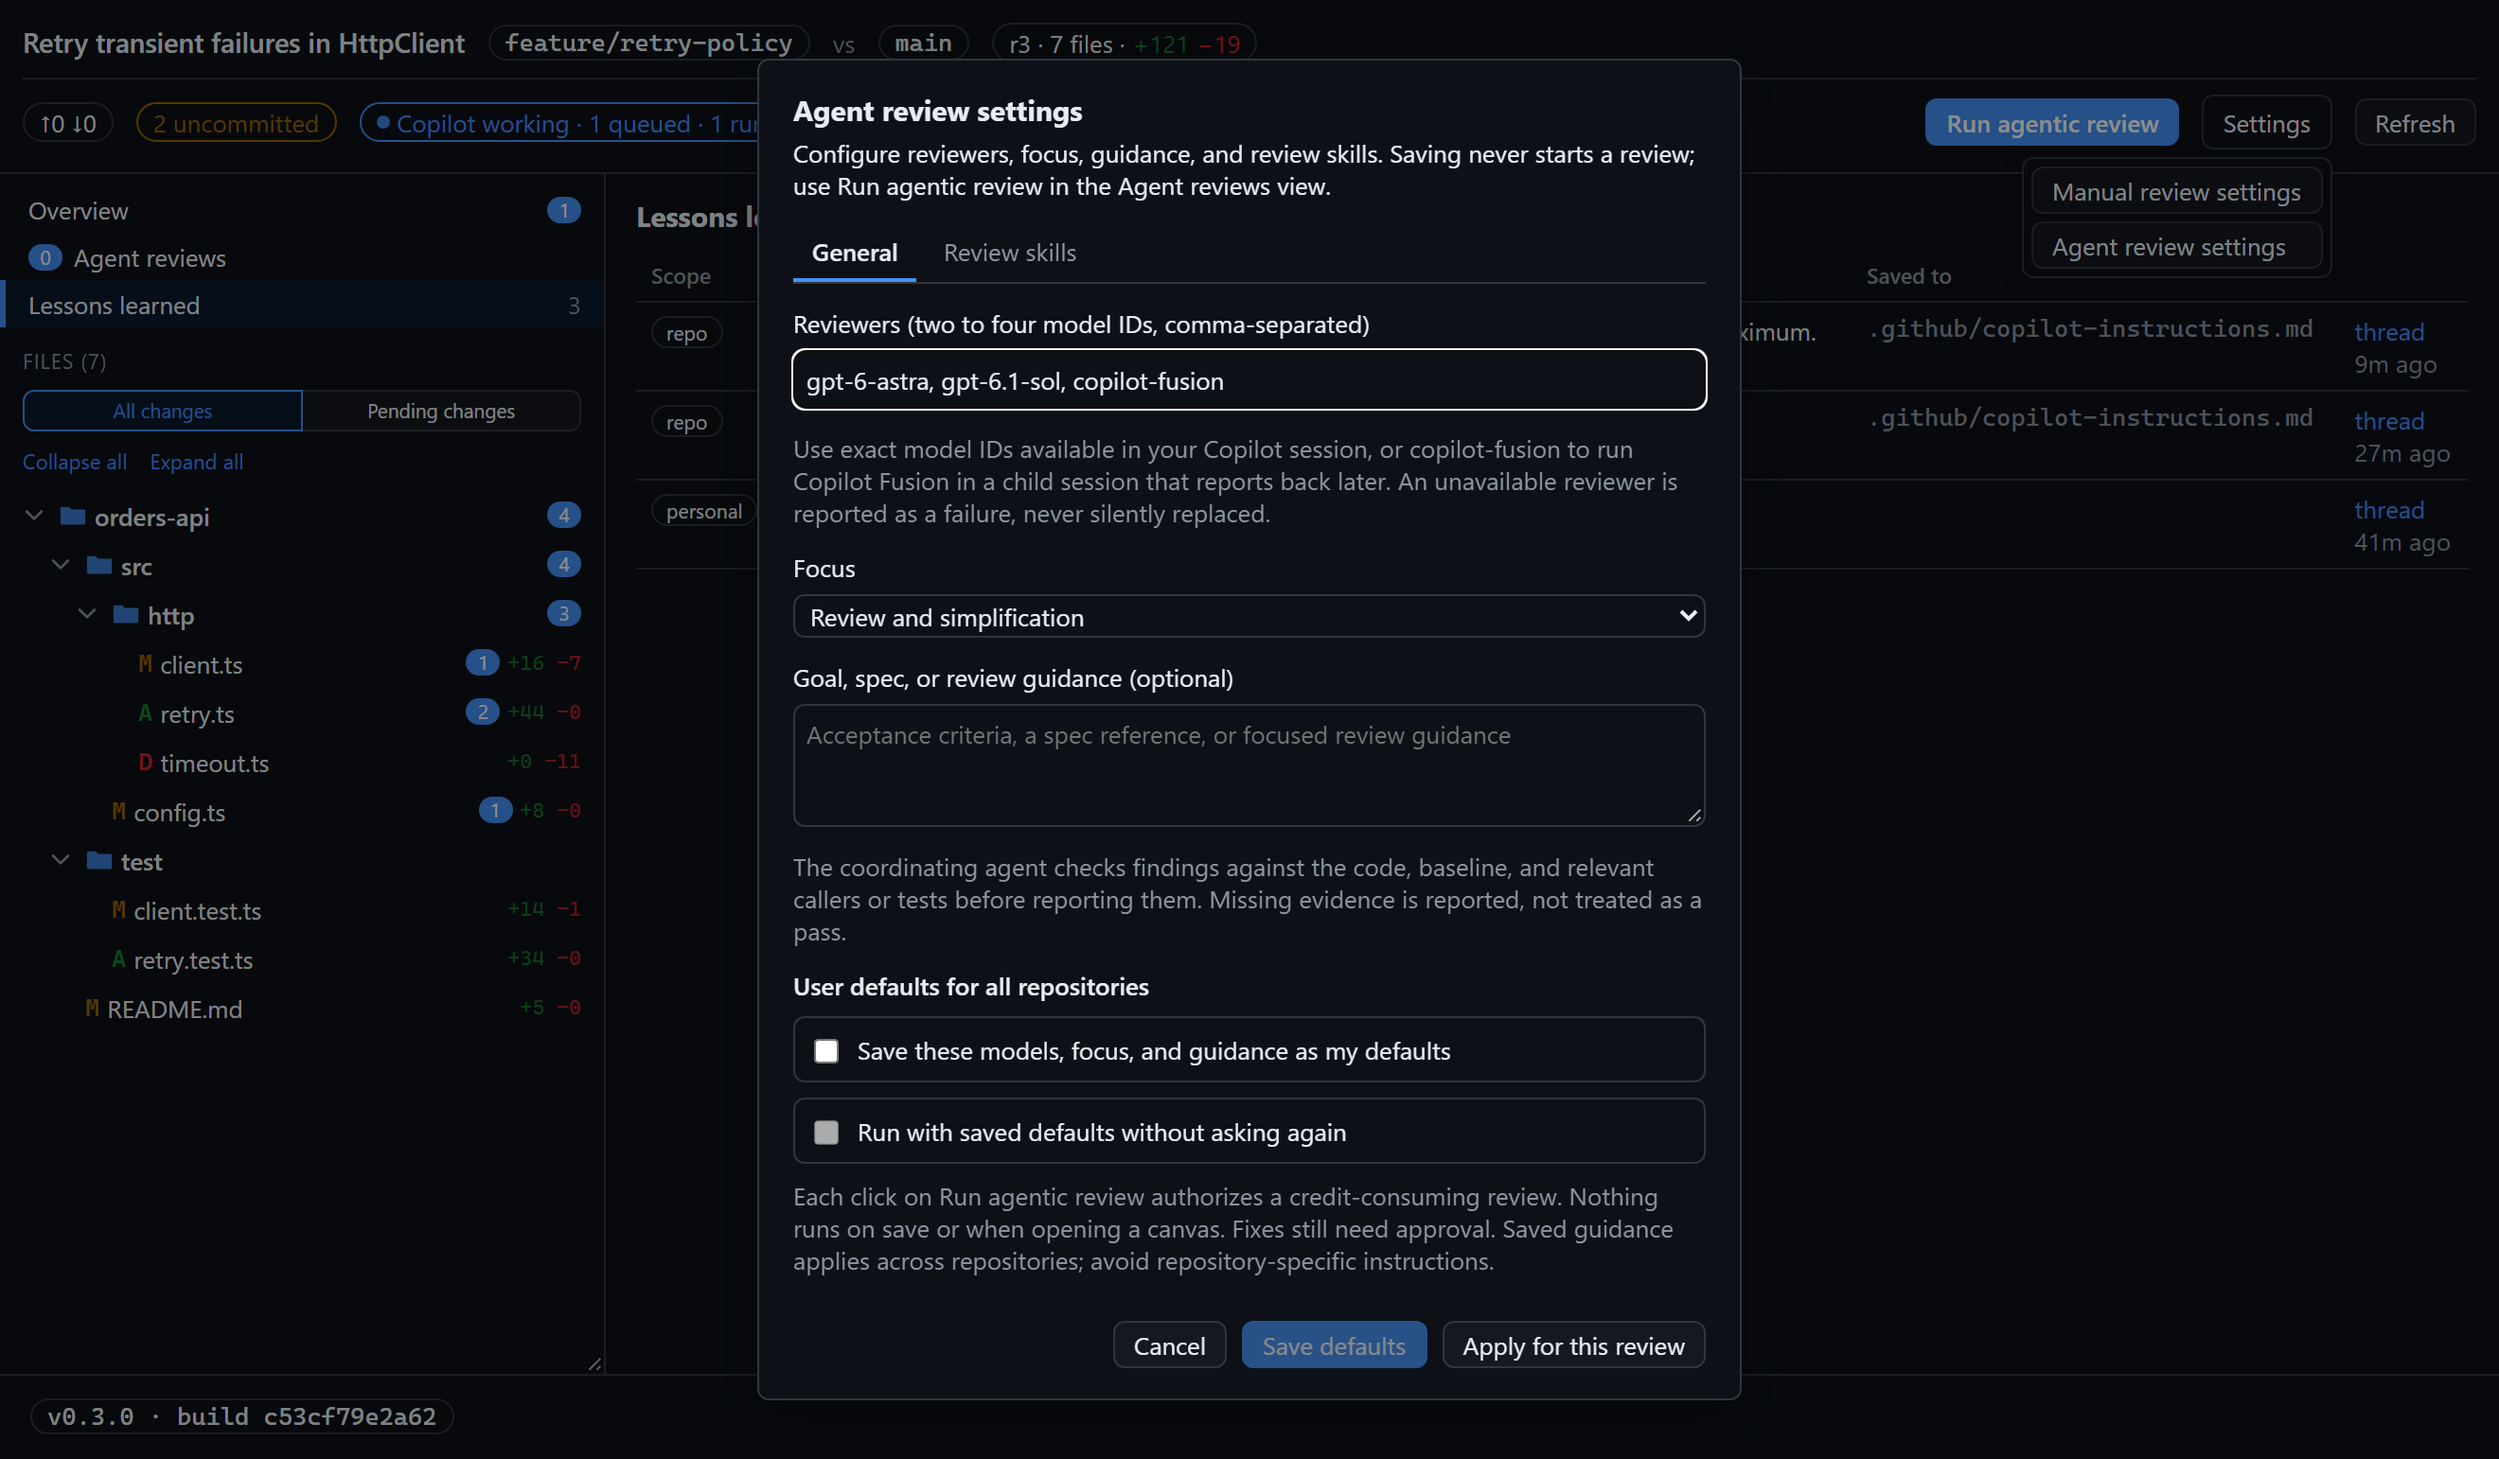
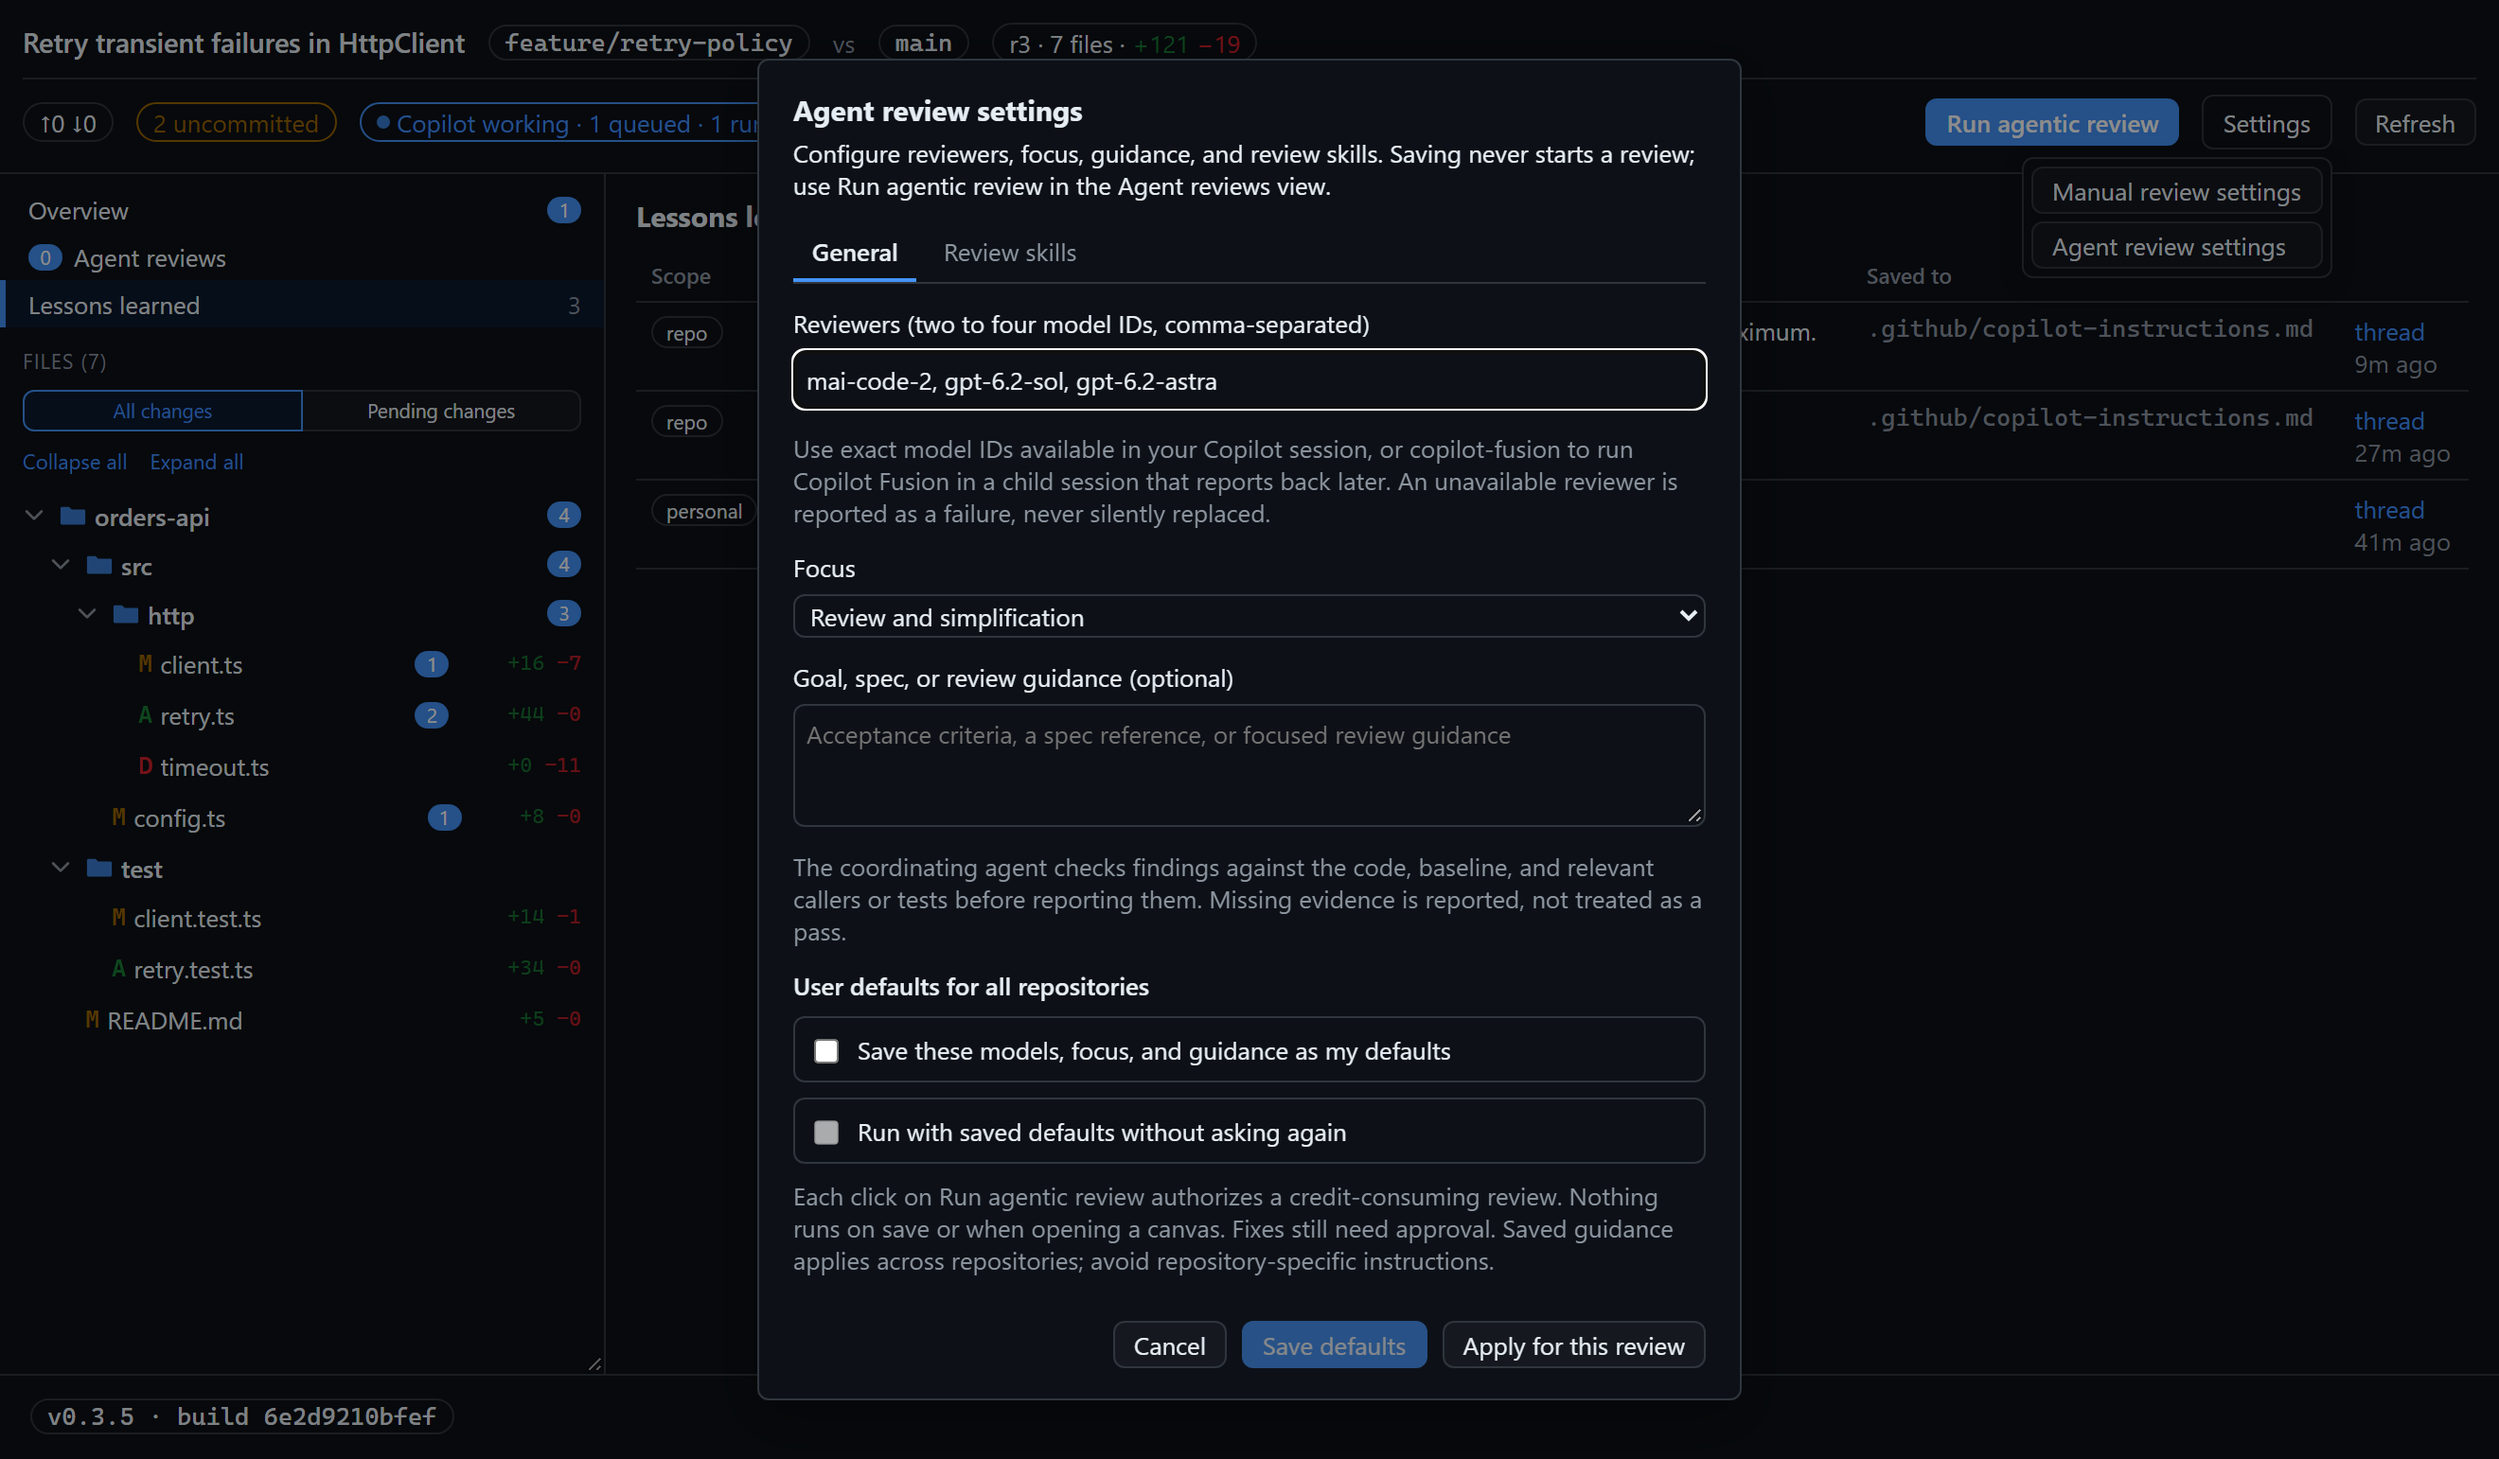
Update default reviewers for Self-Review 0.3.5 (#81)

diff --git a/README.md b/README.md
@@ -133,7 +133,7 @@ The command prompts live in [`/explain`](extensions/self-review/review-commands/
   - **Comments move to history.** Threads that existed when the PR merged leave the overview, active counts, and **Active threads**, and keep their status: an unresolved comment stays unresolved in history, so archiving never implies it was fixed. They can no longer be replied to, resolved, reactivated, sent, or approved, by you or the agent, and **Submit review** skips their drafts. The one exception: the agent can still post its answer to a comment it was already sent before the merge. Comments started after the merge are normal active threads.
   - **Delivered in PR #N.** This sidebar entry below **Lessons learned** opens a read-only history view with the completion summary, the delivered diff (the last revision captured before the merge), and the archived comments with their original disposition and replies.
   - **Start follow-up.** Select archived comments in the history view and click **Start follow-up** to carry them into the current work. Each becomes a new held draft that quotes the original comment, its disposition, and the PR, anchored to the same lines if they are still in the active diff, otherwise to the file, otherwise to the overview. The drafts stay held in every delivery mode until you send them, the originals are not modified, and no agent is started.
-- **Agentic review.** Enter two to four reviewers: exact model IDs available to your session, or `copilot-fusion`. Without saved defaults or a previous run, the dialog suggests `gpt-6-astra`, `gpt-6.1-sol`, and `copilot-fusion`; edit them freely, and nothing runs until you click **Run review**. Choose review, simplification, or both. Optionally add a goal, acceptance criteria, spec reference, or review guidance. The owning conversation launches independent read-only reviewers using those models; this consumes credits and requires model-selectable subagent support. Models are never silently substituted: unavailable models and failed reviews are shown explicitly. Each reviewer can report up to 20 findings labelled with its model, category, severity, and assessment. **Approve** sends a confirmed, actionable finding to the coding agent for implementation; **Discuss** opens its reply box without requesting a fix. Manual review remains available throughout.
+- **Agentic review.** Enter two to four reviewers: exact model IDs available to your session, or `copilot-fusion`. Without saved defaults or a previous run, the dialog suggests `mai-code-2`, `gpt-6.2-sol`, and `gpt-6.2-astra`, in that order. You can edit the list; nothing runs until you click **Run review**. Choose review, simplification, or both. Optionally add a goal, acceptance criteria, spec reference, or review guidance. The owning conversation launches independent read-only reviewers using those models; this consumes credits and requires model-selectable subagent support. Models are never silently substituted: unavailable models and failed reviews are shown explicitly. Each reviewer can report up to 20 findings labelled with its model, category, severity, and assessment. **Approve** sends a confirmed, actionable finding to the coding agent for implementation; **Discuss** opens its reply box without requesting a fix. Manual review remains available throughout.
 - **Agent review defaults.** **Settings → Agent review settings** opens a configuration-only dialog with **General** (models, focus, guidance, user defaults) and **Review skills** tabs. It has no Run button: use **Run agentic review** in the header or **Agent reviews** view. **Save defaults** saves models, focus, and guidance for your user across repositories without starting a review. Enable **Run with saved defaults without asking again** for one-click review of the current scope and revision; opening a canvas never starts work. A previously saved single-model default is preserved but opens the dialog so you can select another reviewer. The Settings menu always lets you change the choices or turn confirmation back on. Saved guidance applies to every repository, so keep repository-specific acceptance criteria in a one-off run. Defaults live under `agentReview` in `~/.copilot/extension-data/self-review/settings.json`, outside the checkout. The `get_agent_review_settings` and `set_agent_review_settings` canvas actions also support explicit preconfiguration; `run_agent_review` with `useDefaults: true` reuses valid defaults without another model-selection question. Host permission prompts and approval before fixes still apply.
 - **Agent reviews.** Choose two to four reviewers. They review independently, then discuss the consolidated candidates and vote; the extra model calls may consume credits. Only findings explicitly agreed by every selected reviewer are published. Equivalent findings with the same issue and remedy can share one thread even if severities or locations differ, retaining each model's original anchor, metadata and evidence. File and line findings may be grouped within the same file when their category and assessment match; overview findings group only with other overview findings. Sharing a file alone does not establish equivalence: distinct or uncertain claims remain separate. A group containing an FYI finding remains discussable but cannot be approved. If a reviewer or vote is unavailable, the run is incomplete and no findings are published. Unanimity is not proof of correctness and can suppress useful findings. The sidebar entry below **Overview** counts published agent findings, separately from manual comments and replies. Its view lists runs, coverage and per-run counts, followed by comments with active/closed and older-revision counts. Counts cover the selected All/Pending scope, not other scopes or repositories. Zero comments is not a successful-review claim: run errors, pending reviewers, and coverage limits remain visible.
 - **Review revisions.** Agent reviews use a pinned diff in the current All/Pending scope, including the review's path filters. Their input excludes held manual drafts. Results and coverage/verification summaries are saved per model; no findings reported is distinct from a failed, missing, or unverified result. A changed diff disables approval of older suggestions; rerun the review or discuss the change explicitly. **Close review** stops accepting results, but does not stop agents already running. No agent review runs automatically.

diff --git a/skills/self-review/SKILL.md b/skills/self-review/SKILL.md
@@ -95,8 +95,7 @@ credits. Use the user's exact selected model IDs and review focus. Discover
 choices. On an explicit review request, use saved defaults with
 `run_agent_review` and `useDefaults: true` without asking again unless the user
 requests different choices. Ask only when neither saved defaults nor explicit
-choices exist. The canvas suggests `gpt-6-astra`, `gpt-6.1-sol`, and
-`copilot-fusion` when nothing is saved; these are not saved choices or consent.
+choices exist. The canvas's built-in suggestions are not saved choices or consent.
 `copilot-fusion` is not a subagent model: follow the queued review prompt to run
 it in one coordinated child session with Auto and a Fusion tier. Wait for the
 child to finish, reconcile its provisional replies, then report once, possibly
